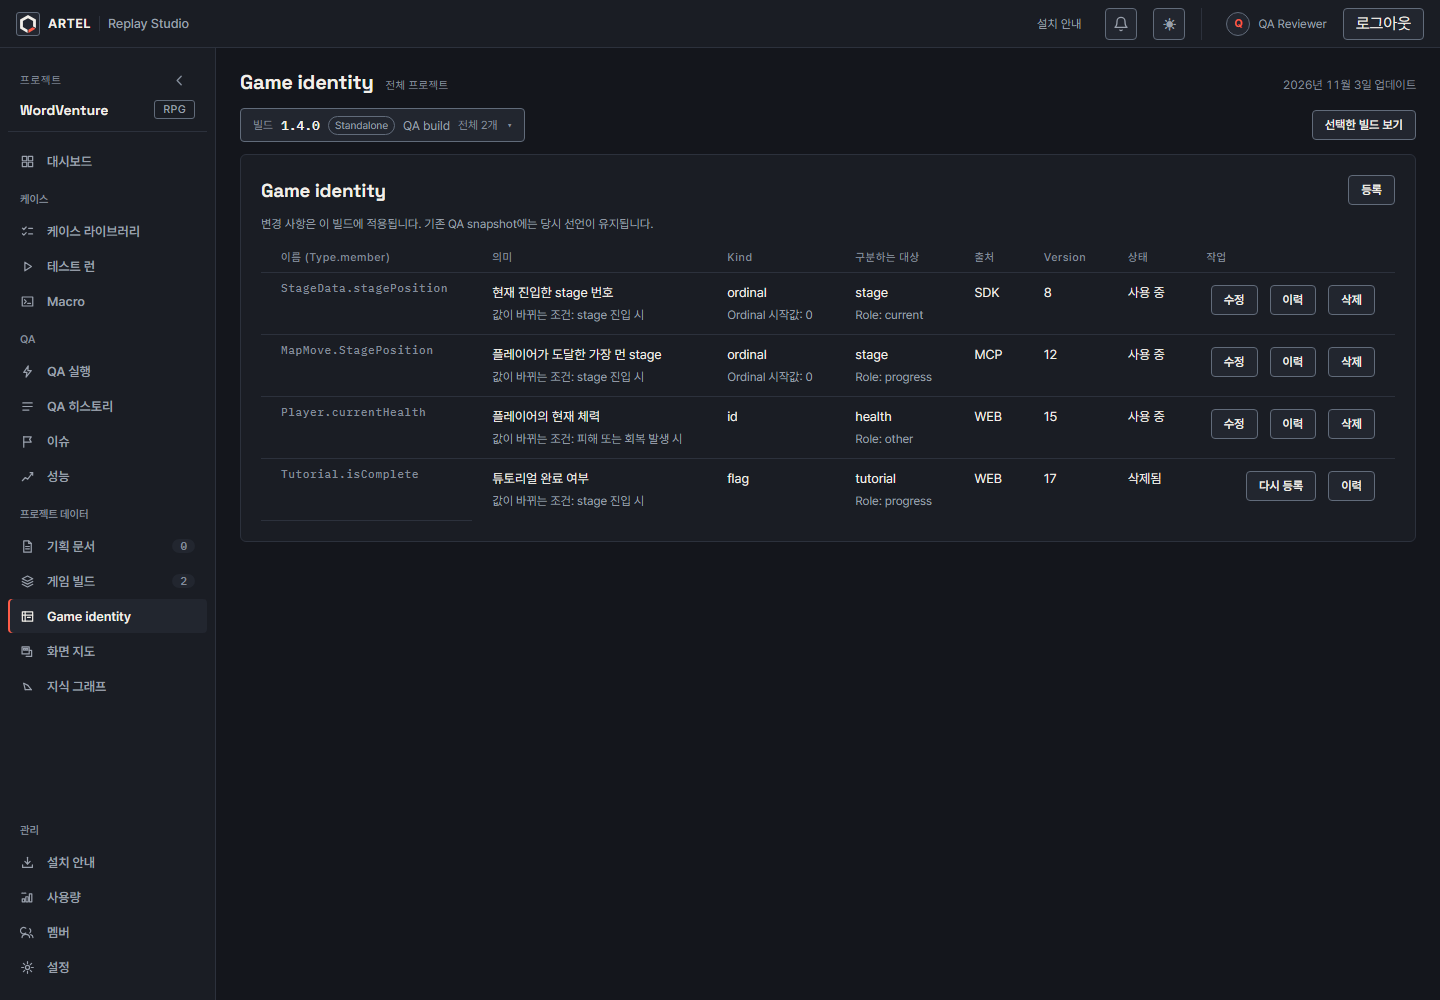
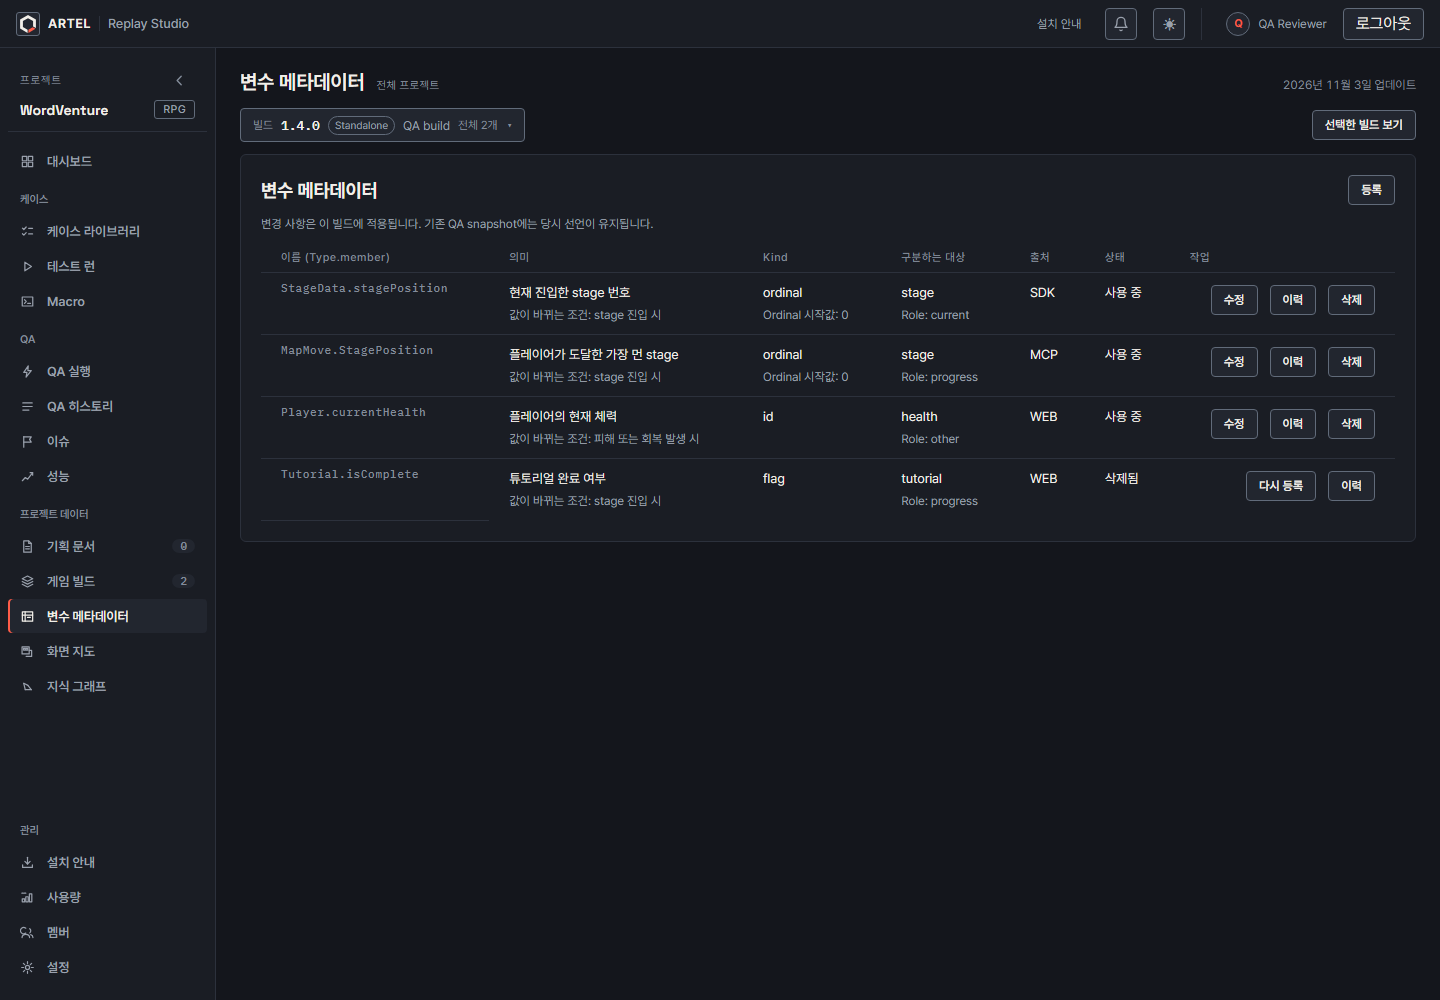
fix(game-identity): 화면명과 목록 버전 표시 수정
화면 명칭을 변수 메타데이터로 통일하고 일반 목록과 build 상세에서 선언 version을 숨긴다. 변경 이력과 내부 버전 검증은 유지한다.

Jira: ARTEL-1359

diff --git a/src/i18n/messages/gameIdentities.ts b/src/i18n/messages/gameIdentities.ts
@@ -1,11 +1,11 @@
 import type { Localized } from '../messages'
 
 export const gameIdentitiesEn = {
-  title: 'Game identities', add: 'Register', edit: 'Edit', remove: 'Delete', restore: 'Register again',
-  save: 'Save', cancel: 'Cancel', retry: 'Retry', loading: 'Loading game identities…',
-  empty: 'No game identities are registered for this build.', failed: 'Game identities could not be loaded.',
+  title: 'Variable metadata', add: 'Register', edit: 'Edit', remove: 'Delete', restore: 'Register again',
+  save: 'Save', cancel: 'Cancel', retry: 'Retry', loading: 'Loading variable metadata…',
+  empty: 'No variable metadata is registered for this build.', failed: 'Variable metadata could not be loaded.',
   saveFailed: 'The change could not be saved. Check the fields and try again.',
-  conflict: 'This identity changed elsewhere. The list has been reloaded. Open it again to review and edit the latest version.',
+  conflict: 'This variable’s metadata changed elsewhere. The list has been reloaded. Open it again to review and edit the latest content.',
   alreadyExists: 'This name is registered for this build. Open Edit to change it.',
   history: 'History', historyTitle: 'Project revision history', close: 'Close',
   historyFailed: 'The revision history could not be loaded.', historyEmpty: 'No revisions recorded.',
@@ -17,15 +17,15 @@ export const gameIdentitiesEn = {
   noBuilds: 'No game builds have been registered. Connect a game with the SDK first.',
   openBuilds: 'View game builds', openBuild: 'View selected build',
   buildNotFound: 'The selected build could not be found. Select another build.',
-  chooseLatestBuild: 'View the latest build', tableLabel: 'Game identity list', actions: 'Actions', status: 'Status',
+  chooseLatestBuild: 'View the latest build', tableLabel: 'Variable metadata list', actions: 'Actions', status: 'Status',
   meaning: 'Meaning', changesWhen: 'Changes when', identifies: 'Identifies', role: 'Role',
-  deleteConfirm: (name: string) => `Delete ${name} from this build? Its revision history will remain.`,
+  deleteConfirm: (name: string) => `Delete metadata for ${name} from this build? Its history will remain.`,
 } as const
 
 export const gameIdentitiesKo: Localized<typeof gameIdentitiesEn> = {
-  title: 'Game identity', add: '등록', edit: '수정', remove: '삭제', restore: '다시 등록',
-  save: '저장', cancel: '취소', retry: '다시 시도', loading: 'Game identity를 불러오는 중…',
-  empty: '이 빌드에 등록된 Game identity가 없습니다.', failed: 'Game identity를 불러오지 못했습니다.',
+  title: '변수 메타데이터', add: '등록', edit: '수정', remove: '삭제', restore: '다시 등록',
+  save: '저장', cancel: '취소', retry: '다시 시도', loading: '변수 메타데이터를 불러오는 중…',
+  empty: '이 빌드에 등록된 변수 메타데이터가 없습니다.', failed: '변수 메타데이터를 불러오지 못했습니다.',
   saveFailed: '변경 사항을 저장하지 못했습니다. 입력 내용을 확인하고 다시 시도해 주세요.',
   conflict: '다른 곳에서 변경된 항목입니다. 목록을 새로 불러왔습니다. 항목을 다시 열어 최신 내용을 확인하고 수정해 주세요.',
   alreadyExists: '이 빌드에 등록된 이름입니다. 수정 버튼으로 항목을 열어 변경해 주세요.',
@@ -39,8 +39,8 @@ export const gameIdentitiesKo: Localized<typeof gameIdentitiesEn> = {
   noBuilds: '등록된 게임 빌드가 없습니다. SDK가 포함된 게임을 먼저 연결해 주세요.',
   openBuilds: '게임 빌드 보기', openBuild: '선택한 빌드 보기',
   buildNotFound: '선택한 빌드를 찾을 수 없습니다. 다른 빌드를 선택해 주세요.',
-  chooseLatestBuild: '최신 빌드 보기', tableLabel: 'Game identity 목록', actions: '작업', status: '상태',
+  chooseLatestBuild: '최신 빌드 보기', tableLabel: '변수 메타데이터 목록', actions: '작업', status: '상태',
   meaning: '의미', changesWhen: '값이 바뀌는 조건', identifies: '구분하는 대상', role: 'Role',
-  deleteConfirm: (name: string) => `이 빌드에서 ${name}을 삭제하시겠습니까? Revision 이력은 유지됩니다.`,
+  deleteConfirm: (name: string) => `이 빌드에서 ${name}의 메타데이터를 삭제하시겠습니까? 변경 이력은 유지됩니다.`,
 }
 

diff --git a/src/projects/GameIdentityPanel.tsx b/src/projects/GameIdentityPanel.tsx
@@ -89,20 +89,20 @@ export function GameIdentityPanel({ projectId, buildId, layout = 'cards' }: {
           : identities.length === 0 ? <p className="panel-empty">{messages.empty}</p>
             : layout === 'table' ? <div className="gi-table-scroll" role="region" aria-label={messages.tableLabel} tabIndex={0}>
               <table className="data-table gi-table" aria-label={messages.tableLabel}>
-                <thead><tr>{[messages.name, messages.meaning, messages.kind, messages.identifies, messages.source, messages.version, messages.status, messages.actions].map((label) => <th key={label} scope="col">{label}</th>)}</tr></thead>
+                <thead><tr>{[messages.name, messages.meaning, messages.kind, messages.identifies, messages.source, messages.status, messages.actions].map((label) => <th key={label} scope="col">{label}</th>)}</tr></thead>
                 <tbody>{identities.map((identity) => <tr key={identity.name}>
                   <th scope="row" className="mono gi-name" translate="no">{identity.name}</th>
                   <td><span>{identity.meaning}</span><p className="gi-note">{messages.changesWhen}: {identity.changesWhen}</p></td>
                   <td>{identity.kind}{identity.base !== null && <p className="gi-note">{messages.base}: {identity.base}</p>}</td>
                   <td>{identity.identifies}<p className="gi-note">{messages.role}: {identity.role}</p></td>
-                  <td>{identity.source}</td><td>{identity.version}</td>
+                  <td>{identity.source}</td>
                   <td>{identity.deleted ? messages.deleted : messages.active}</td><td>{actions(identity)}</td>
                 </tr>)}</tbody>
               </table>
             </div> : <ul className="gi-list">{identities.map((identity) => (
               <li key={identity.name} className="gi-item">
                 <div className="gi-heading"><strong className="mono gi-name" translate="no">{identity.name}</strong><span className="badge">{identity.deleted ? messages.deleted : messages.active}</span></div>
-                <p className="gi-note">{messages.source}: {identity.source} · {messages.version}: {identity.version}</p>
+                <p className="gi-note">{messages.source}: {identity.source}</p>
                 <IdentityFields identity={identity} />
                 {actions(identity)}
               </li>

diff --git a/src/i18n/messages/projects.ts b/src/i18n/messages/projects.ts
@@ -610,7 +610,7 @@ export const projectsEn = {
       qa: 'Run QA',
       qaHistory: 'QA history',
       gameBuilds: 'Game builds',
-      gameIdentities: 'Game identities',
+      gameIdentities: 'Variable metadata',
       contentMap: 'Screen map',
       macros: 'Macros',
       performance: 'Performance',
@@ -1219,7 +1219,7 @@ export const projectsKo: Localized<typeof projectsEn> = {
       qa: 'QA 실행',
       qaHistory: 'QA 히스토리',
       gameBuilds: '게임 빌드',
-      gameIdentities: 'Game identity',
+      gameIdentities: '변수 메타데이터',
       contentMap: '화면 지도',
       macros: 'Macro',
       performance: '성능',
